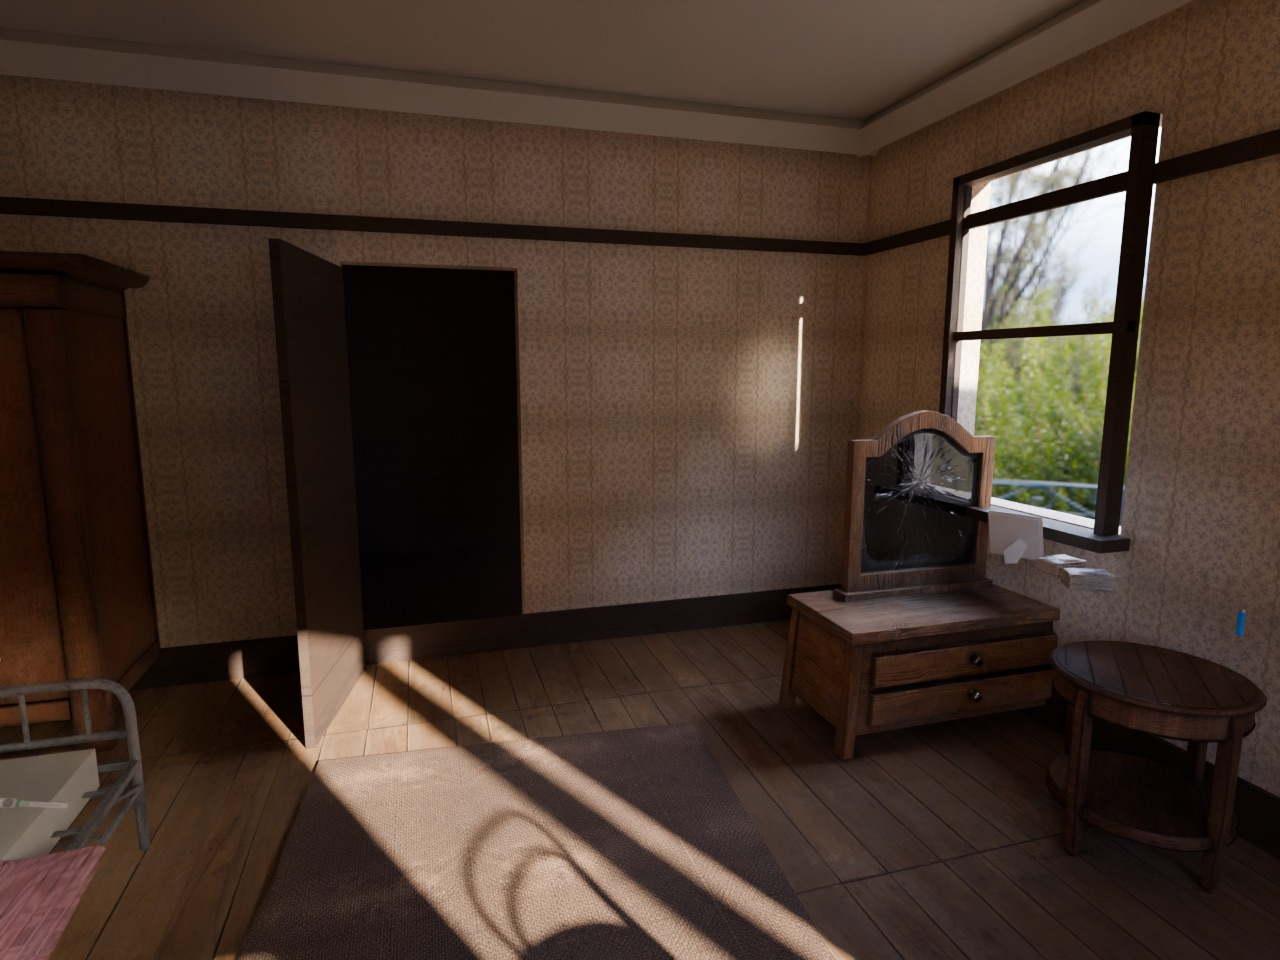
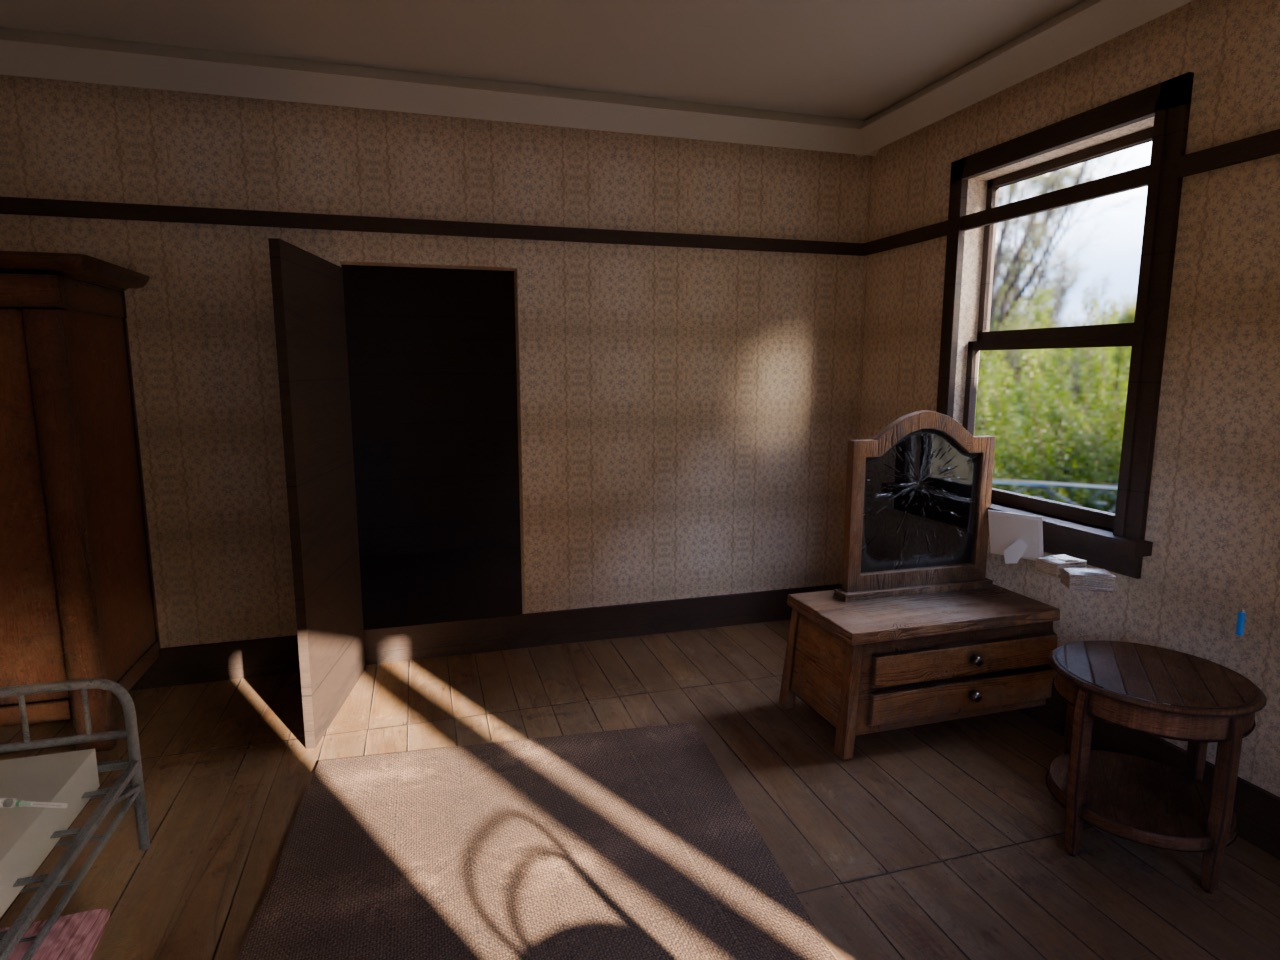
Window joinery, and the spread stops hovering
Two things off the last pass.

**The windows were a hole with a black border.** Both were a rectangle of square
boxes. What makes a window read is the surround and not the glass, so both now
get the joinery a Victorian double hung actually has: a flat architrave with a
bead standing proud of it, a sill that projects into the room and runs past the
architrave at both ends, an apron under the sill, and two sashes set at
different depths so the meeting rails overlap the way they really do. Still
boxes, but the right boxes, and they step.

One over one, no glazing bars, because that is what 1a-target.png has.

Both windows come out of one `_window()` now, parameterised by which wall they
are in, so the street one stops drifting away from the verandah one. The
verandah sill keeps the exact name `sill`, because it is a lookable and the
`sill` evidence hangs off it.

**The spread was hovering over the mattress**, which is the anchor being wrong
at both ends. The bottom of the import is the hem of the drape, which in the
source hangs most of the way to the floor, so sitting that on the mattress
lifted the whole spread half a metre and it floated like a tent. Sitting the top
of the import on the mattress is no better: the top is the crest of a fold, so
that dropped the spread through the bed and puddled it on the boards.

What has to touch the mattress is the flat of the blanket, and most of a spread
is flat, so the median vertex height is the flat. That is what gets anchored
[…]

diff --git a/tools/blender/build_room1a.py b/tools/blender/build_room1a.py
@@ -374,6 +374,74 @@ def build_doors(timber):
     return parts
 
 
+def _window(timber, glass, axis, inside, outward, u0, u1, z0, z1, lift, name):
+    """
+    One double hung sash, with the joinery a Victorian one actually has.
+
+    The first pass was a rectangle of square boxes and it read as a hole with a
+    black border. What makes a window read is the surround, not the glass:
+    a moulded architrave standing proud of the wall, a sill that projects into
+    the room with an apron under it, and two sashes of different depths so the
+    meeting rails overlap. All of that is still boxes, but they are the right
+    boxes and they step.
+
+    `axis` is which way the opening runs. `inside` is the room face of the wall
+    and `outward` is +1 or -1 along the depth axis, so the same code builds the
+    verandah sash in the -Y wall and the street one in the +X wall.
+
+    `lift` is how far the lower sash is pushed up. The verandah one is open a
+    hand's width and that gap is the whole reason the `sill` evidence exists.
+    The street one is shut and stays shut.
+    """
+    parts = []
+
+    def bx(tag, ua, ub, da, db, za, zb, mat):
+        """Box in window space: u along the wall, d into it, z up."""
+        a = inside + outward * da
+        b = inside + outward * db
+        lo_d, hi_d = min(a, b), max(a, b)
+        if axis == "x":
+            ob = cube(f"{name}_{tag}", (ua, lo_d, za), (ub, hi_d, zb))
+        else:
+            ob = cube(f"{name}_{tag}", (lo_d, ua, za), (hi_d, ub, zb))
+        assign(ob, mat)
+        parts.append(ob)
+        return ob
+
+    # Architrave: a wide flat board round the opening with a bead standing proud
+    # of it. Two steps is the difference between moulding and a picture frame.
+    arch, bead = 0.105, 0.042
+    for tag, w, d0, d1 in (("arch", arch, -0.024, 0.0), ("bead", bead, -0.038, -0.024)):
+        bx(f"{tag}_l", u0 - w, u0, d0, d1, z0 - 0.02, z1 + w, timber)
+        bx(f"{tag}_r", u1, u1 + w, d0, d1, z0 - 0.02, z1 + w, timber)
+        bx(f"{tag}_head", u0 - w, u1 + w, d0, d1, z1, z1 + w, timber)
+
+    # Sill and apron. The sill runs past the architrave at both ends, because a
+    # sill that stops flush with the reveal is a shelf and not a sill.
+    bx("sill", u0 - arch - 0.035, u1 + arch + 0.035, -0.085, WALL, z0 - 0.055, z0, timber)
+    bx("apron", u0 - arch, u1 + arch, -0.020, 0.0, z0 - 0.155, z0 - 0.055, timber)
+
+    def leaf(tag, za, zb, da, bottom, top):
+        db = da + 0.042
+        stile, meet = 0.038, 0.048
+        ua, ub = u0 + 0.010, u1 - 0.010
+        bx(f"{tag}_stile_l", ua, ua + stile, da, db, za, zb, timber)
+        bx(f"{tag}_stile_r", ub - stile, ub, da, db, za, zb, timber)
+        bx(f"{tag}_rail_b", ua, ub, da, db, za, za + bottom, timber)
+        bx(f"{tag}_rail_t", ua, ub, da, db, zb - top, zb, timber)
+        # Glass sits in the middle of the section, not on the front of it.
+        gd = da + 0.019
+        bx(f"{tag}_glass", ua + stile, ub - stile, gd, gd + 0.004,
+           za + bottom, zb - top, glass)
+        return meet
+
+    pane = (z1 - z0) / 2
+    # Two depths, so the sashes pass each other the way they really do.
+    leaf("lower", z0 + lift, z0 + lift + pane, 0.055, 0.058, 0.048)
+    leaf("upper", z1 - pane, z1, 0.108, 0.048, 0.042)
+    return parts
+
+
 def build_sash(timber, glass):
     """
     Both windows, built here rather than sourced.
@@ -383,54 +451,20 @@ def build_sash(timber, glass):
     cuts across the view out. The sourced window pack stays in assets/sourced as
     a reference for the mouldings.
 
-    The verandah sash is open a hand's width. That gap is the whole reason the
-    `sill` evidence exists. The street one is shut and stays shut.
+    One over one, no glazing bars, because that is what 1a-target.png has.
     """
-    parts = []
-    w = SASH_WIDTH
-    h = SASH_TOP - SASH_SILL
-    y = -HD + 0.05
-    s = 0.045
-    lift = 0.11
-    pane = h / 2
+    parts = _window(
+        timber, glass, "x", -HD, -1.0,
+        -SASH_WIDTH / 2, SASH_WIDTH / 2, SASH_SILL, SASH_TOP, 0.11, "sash",
+    )
+    # The verandah sill is a lookable in room1a.ts and the `sill` evidence hangs
+    # off it, so it keeps that exact name through the export.
+    bpy.data.objects["sash_sill"].name = "sill"
 
-    for name, lo, hi in (
-        ("sash_stile_l", (-w / 2, y - 0.04, SASH_SILL), (-w / 2 + s, y + 0.04, SASH_TOP)),
-        ("sash_stile_r", (w / 2 - s, y - 0.04, SASH_SILL), (w / 2, y + 0.04, SASH_TOP)),
-        ("sash_head", (-w / 2, y - 0.04, SASH_TOP - s), (w / 2, y + 0.04, SASH_TOP)),
-        ("sill", (-w / 2 - 0.07, y - 0.02, SASH_SILL - 0.05), (w / 2 + 0.07, -HD + 0.18, SASH_SILL)),
-        ("sash_lower_rail", (-w / 2, y - 0.02, SASH_SILL + lift), (w / 2, y + 0.02, SASH_SILL + lift + s)),
-        ("sash_meeting_rail", (-w / 2, y - 0.02, SASH_SILL + lift + pane - s), (w / 2, y + 0.02, SASH_SILL + lift + pane)),
-        ("sash_upper_rail", (-w / 2, y - 0.07, SASH_TOP - pane), (w / 2, y - 0.03, SASH_TOP - pane + s)),
-    ):
-        p = cube(name, lo, hi)
-        assign(p, timber)
-        parts.append(p)
-
-    for name, lo, hi in (
-        ("glass_lower", (-w / 2 + s, y - 0.004, SASH_SILL + lift + s), (w / 2 - s, y + 0.004, SASH_SILL + lift + pane - s)),
-        ("glass_upper", (-w / 2 + s, y - 0.054, SASH_TOP - pane + s), (w / 2 - s, y - 0.046, SASH_TOP - s)),
-    ):
-        g = cube(name, lo, hi)
-        assign(g, glass)
-        parts.append(g)
-
-    fh = FRONT_TOP - FRONT_SILL
-    fx = HW - 0.05
-    for name, lo, hi in (
-        ("front_stile_l", (fx - 0.04, FRONT_Y0, FRONT_SILL), (fx + 0.04, FRONT_Y0 + s, FRONT_TOP)),
-        ("front_stile_r", (fx - 0.04, FRONT_Y1 - s, FRONT_SILL), (fx + 0.04, FRONT_Y1, FRONT_TOP)),
-        ("front_head", (fx - 0.04, FRONT_Y0, FRONT_TOP - s), (fx + 0.04, FRONT_Y1, FRONT_TOP)),
-        ("front_sill", (HW - 0.18, FRONT_Y0 - 0.07, FRONT_SILL - 0.05), (fx + 0.02, FRONT_Y1 + 0.07, FRONT_SILL)),
-        ("front_meeting", (fx - 0.02, FRONT_Y0, FRONT_SILL + fh / 2), (fx + 0.02, FRONT_Y1, FRONT_SILL + fh / 2 + s)),
-    ):
-        p = cube(name, lo, hi)
-        assign(p, timber)
-        parts.append(p)
-
-    fg = cube("glass_front", (fx - 0.004, FRONT_Y0 + s, FRONT_SILL + s), (fx + 0.004, FRONT_Y1 - s, FRONT_TOP - s))
-    assign(fg, glass)
-    parts.append(fg)
+    parts += _window(
+        timber, glass, "y", HW, 1.0,
+        FRONT_Y0, FRONT_Y1, FRONT_SILL, FRONT_TOP, 0.0, "front",
+    )
     return parts
 
 
@@ -496,13 +530,18 @@ def build_bedding(bed_holder, spread, linen, ticking):
     # hanging off the head.
     blo, bhi = world_bounds(new)
     size = bhi - blo
-    fits = []
     if size.y > 1e-6:
-        fits.append((hi.y - lo.y - 0.16) / size.y)
-    if size.x > 1e-6:
-        fits.append((hi.x - lo.x + 0.16) / size.x)
-    if fits:
-        holder.scale = (min(fits),) * 3
+        holder.scale = ((hi.y - lo.y - 0.16) / size.y,) * 3
+    bpy.context.view_layer.update()
+
+    # Then widen it on its own. Length is what sets the scale, because a spread
+    # that is short reads as a towel, and at that scale this one came up narrow
+    # enough to leave a bare strip of ticking down one side whichever way it was
+    # thrown. Stretching cloth across its width by a sixth is not visible; a bed
+    # half made is.
+    blo, bhi = world_bounds(new)
+    if (bhi - blo).x > 1e-6:
+        holder.scale.x *= ((hi.x - lo.x) + 0.34) / (bhi - blo).x
     bpy.context.view_layer.update()
 
     # A mattress under it, because the sourced blanket came off a bed that had
@@ -515,16 +554,32 @@ def build_bedding(bed_holder, spread, linen, ticking):
     )
     assign(mattress, ticking)
 
+    # Anchor on the flat of the blanket, and find the flat by asking the mesh.
+    #
+    # Neither end of the bounding box is the right anchor. The bottom of it is
+    # the hem of the drape, which in the source hangs most of the way to the
+    # floor, and sitting that on the mattress lifted the whole spread half a
+    # metre and it floated over the bed like a tent. The top of it is the crest
+    # of a fold, and sitting that on the mattress dropped the spread through the
+    # bed and left it puddled on the boards.
+    #
+    # What has to touch the mattress is the flat, and most of a spread is flat,
+    # so the median vertex height is the flat. That is what gets anchored, and
+    # the drape is left to hang past the frame.
+    blanket = max(
+        (o for o in new if o.type == "MESH"),
+        key=lambda o: o.dimensions.x * o.dimensions.y * o.dimensions.z,
+    )
+    heights = sorted((blanket.matrix_world @ v.co).z for v in blanket.data.vertices)
+    flat = heights[len(heights) // 2]
+
     blo, bhi = world_bounds(new)
     mid = (blo + bhi) / 2
     holder.location = (
-        # Over toward the room, not centred. The sourced spread is off a messy
-        # bed and it is thrown rather than made, so centring it leaves a bare
-        # strip of ticking down the side the player walks past.
-        holder.location.x + ((lo.x + hi.x) / 2 - mid.x) + 0.10,
+        holder.location.x + ((lo.x + hi.x) / 2 - mid.x),
         # Back off the head end so the pillow sits on the bed and not past it.
         holder.location.y + ((lo.y + hi.y) / 2 - mid.y) - 0.07,
-        holder.location.z + (springs + 0.12 - blo.z),
+        holder.location.z + (springs + 0.13 + 0.02 - flat),
     )
     bpy.context.view_layer.update()
 
